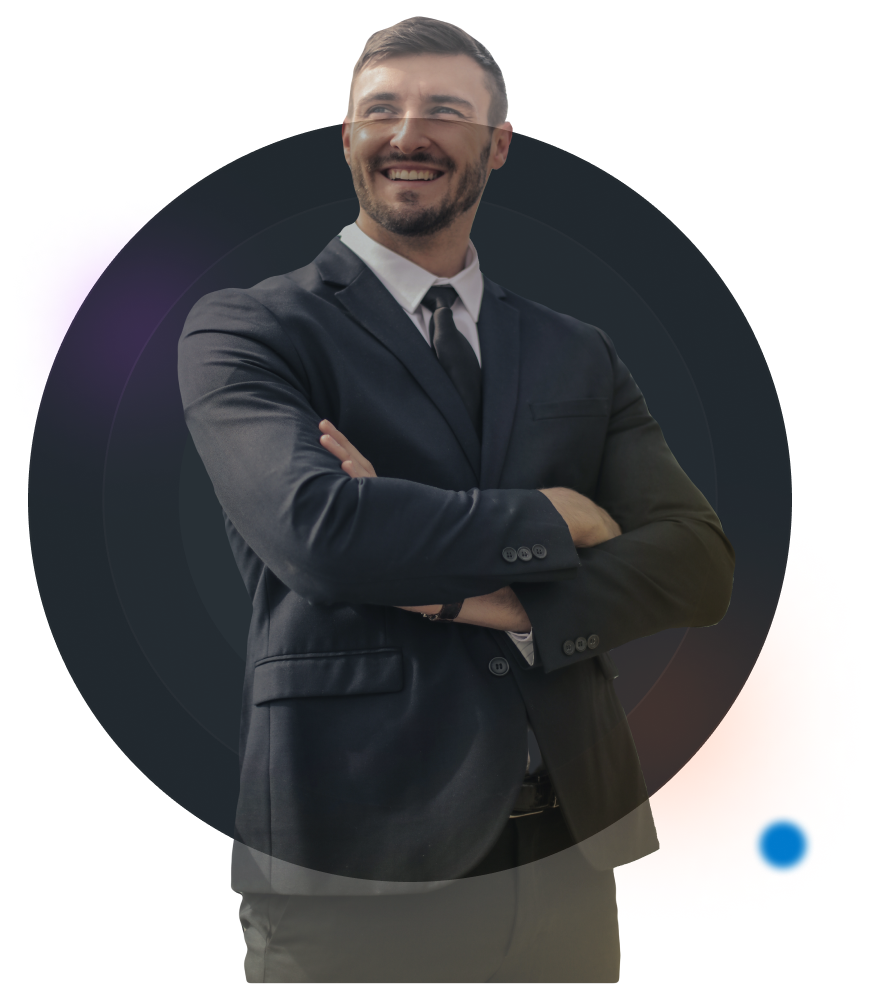
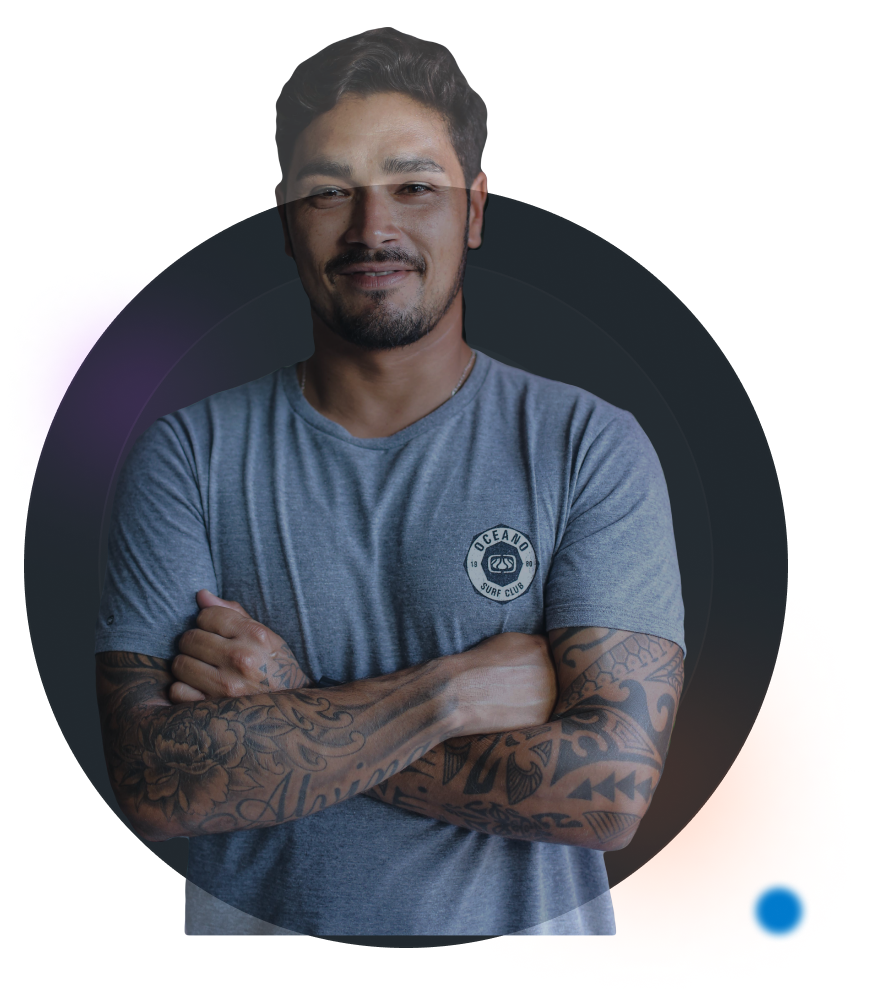
Make PP, fix styles

diff --git a/src/components/feedbacks/feedbacks.css b/src/components/feedbacks/feedbacks.css
@@ -13,16 +13,17 @@
 }
 
 .feedback__person {
+  padding: 23px 0 0 10px;
   align-self: stretch;
   position: relative;
 }
 
 .feedback__person img {
-  object-fit: contain;
+  object-fit: cover;
 }
 
 .feedback__person div {
-  padding: 10px 22px 16px;
+  padding: 10px 22px 18px;
   max-width: 265px;
   background: rgba(40, 48, 54, 0.2);
   backdrop-filter: blur(25px);
@@ -56,10 +57,12 @@
   position: relative;
   text-align: left;
   margin: 0;
-  max-width: 380px;
+  max-width: 394px;
   font-size: 14px;
+  letter-spacing: 0.013em;
   color: rgba(255, 255, 255, 0.78);
   z-index: 2;
+  padding-bottom: 36px;
 }
 
 .feedback__text::before {
@@ -75,7 +78,11 @@
 }
 
 .swiper-wrapper {
-  margin-bottom: 100px;
+  margin-bottom: 97px;
+}
+
+.feedbacks__pagination-wrapper {
+  line-height: 8px;
 }
 
 .swiper-button-prev,
@@ -87,10 +94,11 @@
   color: rgba(255, 255, 255, 0.28);
 }
 
-.custom-bullet {
+.feedbacks__pagination-wrapper .custom-bullet.swiper-pagination-bullet {
   line-height: 8px;
   height: 8px;
   width: 44px;
   border-radius: 4px;
   background-color: var(--color-orange);
+  margin: 0 8px;
 }

diff --git a/src/components/promo/promo.css b/src/components/promo/promo.css
@@ -1,7 +1,7 @@
 .promo {
   background-image: url(../../../public/img/promo-background.webp);
   background-repeat: no-repeat;
-  background-position-y: 90%;
+  background-position-y: 100%;
   margin-bottom: 100px;
 }
 
@@ -18,7 +18,6 @@
   line-height: 140%;
   font-weight: 500;
   color: rgba(255, 255, 255, 0.9);
-  letter-spacing: 0.08125rem;
   margin: 0;
   margin-bottom: 30px;
 }
@@ -29,14 +28,13 @@
 
 .promo__info {
   font-size: 18px;
-  letter-spacing: 0.02125rem;
-  margin-bottom: 60px;
+  margin-bottom: 59px;
   max-width: 80%;
 }
 
 .promo__form {
-  margin-bottom: 110px;
-  max-width: 500px;
+  margin-bottom: 108px;
+  max-width: 499px;
 }
 
 .socials {
@@ -47,6 +45,7 @@
 
 .socials__link svg {
   width: 58px;
+  height: 58px;
   fill: var(--color-white);
   fill-opacity: 0.78;
   transition: all 0.3s linear;

diff --git a/src/components/page-header/page-header.css b/src/components/page-header/page-header.css
@@ -6,12 +6,17 @@
   line-height: 24px;
 }
 
+.header__navigation {
+  padding-left: 66px;
+}
+
 .navigation__list {
   position: relative;
   display: flex;
+  flex-wrap: wrap;
   list-style-type: none;
   font-weight: 500;
-  gap: 24px;
+  gap: 20px;
   color: rgba(255, 255, 255, 0.55)
 }
 
@@ -31,7 +36,7 @@
   position: absolute;
   top: 50%;
   right: 0;
-  transform: translate(100%, -40%);
+  transform: translate(70%, -40%);
   background-image: url("../../../public/img/chevron-down.svg");
   background-repeat: no-repeat;
 }
@@ -39,7 +44,7 @@
 .header__buttons {
   display: flex;
   font-weight: 600;
-  gap: 40px;
+  gap: 36px;
 }
 
 .header__login {
@@ -47,6 +52,8 @@
   border: none;
   color: rgba(255, 255, 255, 0.78);
   cursor: pointer;
+  line-height: 24px;
+  font-weight: 600;
 }
 
 .header__signup {

diff --git a/src/components/page-footer/page-footer.css b/src/components/page-footer/page-footer.css
@@ -5,14 +5,13 @@
 .footer__inner {
   display: flex;
   flex-wrap: wrap;
-  justify-content: space-between;
   align-items: flex-start;
   gap: 115px;
-  padding: 70px 0 98px;
+  padding: 67px 0 98px;
 }
 
 .footer__item:first-child {
-  margin-right: 31px;
+  margin-right: 38px;
 }
 
 .footer address {
@@ -23,7 +22,6 @@
   display: block;
   line-height: 24px;
   margin: 25px 0 21px;
-  letter-spacing: 0.03rem;
   color: rgba(255, 255, 255, 0.9);
 }
 
@@ -40,15 +38,13 @@
   max-width: 263px;
   font-size: 14px;
   line-height: 25px;
-  letter-spacing: 0.018rem;
 }
 
 .footer__list-item:not(:last-child) {
-  margin-bottom: 10px;
+  margin-bottom: 2px;
 }
 
 .footer__link {
   font-weight: 500;
   line-height: 24px;
-  letter-spacing: 0.04375rem;
 }

diff --git a/src/components/tool-card/tool-card.css b/src/components/tool-card/tool-card.css
@@ -19,7 +19,7 @@
 } */
 
 .tool:hover {
-  transform: translate(0, -25px);
+  transform: translate(0, -19px);
   background: url('../../../public/img/card-background.png') center no-repeat;
   background-size: cover;
 }
@@ -84,7 +84,7 @@
   color: inherit;
   border-radius: 8px;
   margin-left: auto;
-  padding: 9px 35px;
+  padding: 9px 37px;
   font-weight: 600;
   line-height: 24px;
   transition: background-color 0.2s linear;

diff --git a/src/components/popular/popular.css b/src/components/popular/popular.css
@@ -17,7 +17,7 @@
   margin: 25px auto;
   font-weight: 500;
   font-size: 18px;
-  margin-bottom: 90px;
+  margin-bottom: 109px;
 }
 
 .popular__tools {
@@ -39,7 +39,7 @@
   font-weight: 500;
   font-size: 20px;
   color: var(--color-orange);
-  padding: 17px 38px;
+  padding: 20px 38px;
   border: 1px solid rgba(255, 255, 255, 0.1);
   border-radius: 8px;
   cursor: pointer;

diff --git a/src/contributor/contributor.css b/src/contributor/contributor.css
@@ -14,7 +14,7 @@
   line-height: 130%;
   color: rgba(255, 255, 255, 0.9);
   margin: 0;
-  margin-bottom: 25px;
+  margin-bottom: 5px;
 }
 
 .contributor__info {
@@ -23,7 +23,6 @@
   font-size: 18px;
   text-align: center;
   margin-bottom: 100px;
-  letter-spacing: 0.03rem;
 }
 
 .contributor__form {

diff --git a/src/components/newcomer/newcomer.css b/src/components/newcomer/newcomer.css
@@ -1,5 +1,5 @@
 .newcomer__inner {
-  padding: 100px 0;
+  padding: 120px 0 80px;
   display: flex;
   justify-content: space-between;
   align-items: flex-start;
@@ -33,6 +33,7 @@
 .newcomer__tool {
   padding: 28px 22px;
   max-width: 288px;
+  font-size: 14px;
 }
 
 .newcomer__more-btn {

diff --git a/src/components/partners/partners.css b/src/components/partners/partners.css
@@ -22,6 +22,7 @@
 .partners__list {
   display: flex;
   max-height: 51px;
+  /* flex-wrap: wrap; */
   justify-content: space-between;
   align-items: center;
   gap: 107px;

diff --git a/src/components/form/form.css b/src/components/form/form.css
@@ -52,4 +52,5 @@
   font-size: 16px;
   line-height: 24px;
   color: var(--color-white);
+  max-width: 150px;
 }
